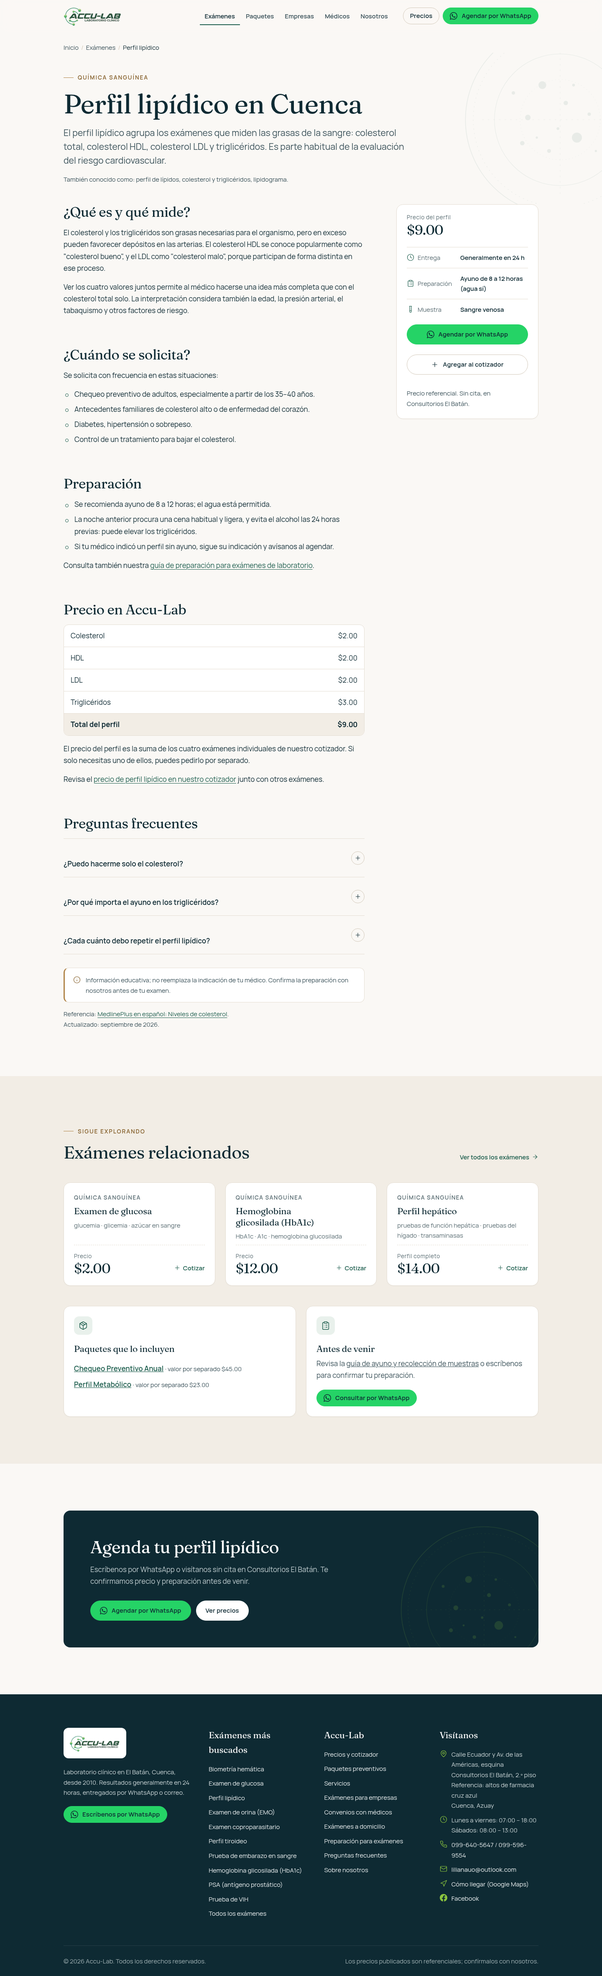
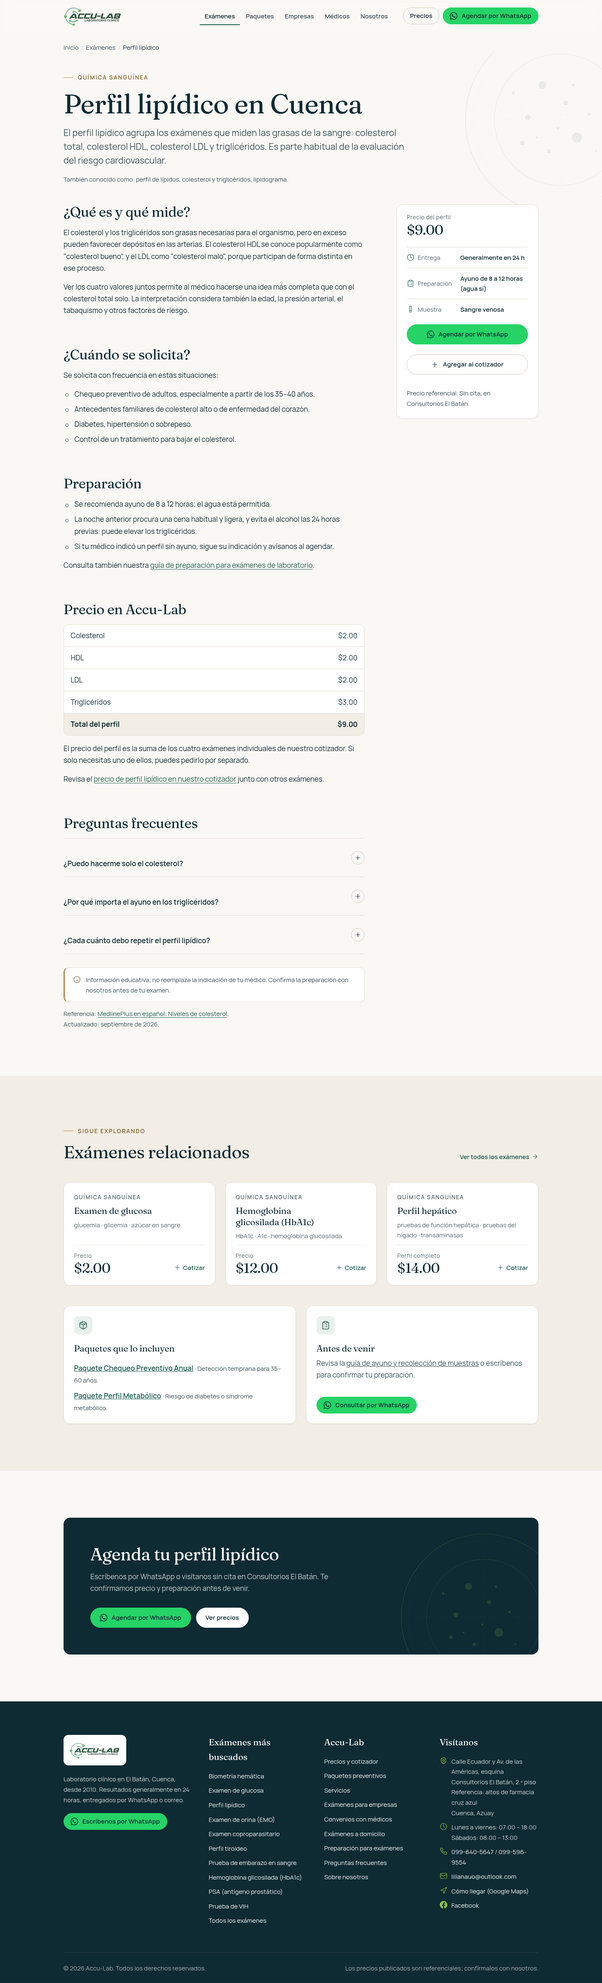
Ocultar o dejar sin precio lo que el cliente aún no confirma
- Paquetes: sin sumas ni "valor por separado" en tarjetas, /paquetes, páginas de
  examen y cotizador; ?paquete= envía solo la lista de exámenes para pedir precio
- Entrega "Generalmente en 24 h" solo en exámenes básicos; en los 15
  especializados, "Te lo confirmamos al agendar" (descriptions actualizadas)
- Ocultas: FAQ "¿Necesito orden médica?" (validar), costo del domicilio y lista
  de sustancias en la página del panel toxicológico
- PENDIENTES, DESIGN-DECISIONS (D-027), RESUMEN y capturas actualizados

Claude-Session: https://claude.ai/code/session_01Auzc9Xyq8xikAKfSvydBMZ

diff --git a/src/data/paginas/especiales.ts b/src/data/paginas/especiales.ts
@@ -1,4 +1,4 @@
-import { type PaginaExamen, ENTREGA_24H, ACTUALIZADO } from './tipos';
+import { type PaginaExamen, ENTREGA_24H, ENTREGA_A_CONFIRMAR, ACTUALIZADO } from './tipos';
 
 export const ESPECIALES: PaginaExamen[] = [
   {
@@ -6,7 +6,7 @@ export const ESPECIALES: PaginaExamen[] = [
     nombre: 'Dengue IgM',
     h1: 'Prueba de dengue',
     tituloSeo: 'Prueba de Dengue',
-    descripcion: 'Prueba de dengue (IgM) en Cuenca por $12.00. Sin ayuno y sin cita, con resultados generalmente en 24 h. Si tienes signos de alarma, acude a emergencias.',
+    descripcion: 'Prueba de dengue (IgM) en Cuenca por $12.00. Sin ayuno y sin cita, en Consultorios El Batán. Si tienes signos de alarma, acude de inmediato a emergencias.',
     categoria: 'infecciosas',
     sinonimos: ['dengue IgM', 'anticuerpos contra dengue', 'examen de dengue'],
     componentes: ['dengue-igm'],
@@ -14,7 +14,7 @@ export const ESPECIALES: PaginaExamen[] = [
     complementos: ['hemograma'],
     muestra: 'Sangre venosa',
     resumenPrep: 'No requiere ayuno',
-    entrega: ENTREGA_24H,
+    entrega: ENTREGA_A_CONFIRMAR,
     intro:
       'El dengue es una infección viral transmitida por mosquitos, frecuente en las zonas cálidas de Ecuador. Si viajaste a la Costa o al Oriente y tienes fiebre, tu médico puede pedir esta prueba.',
     queEs: [
@@ -50,7 +50,7 @@ export const ESPECIALES: PaginaExamen[] = [
     nombre: 'Ferritina y hierro',
     h1: 'Ferritina y hierro',
     tituloSeo: 'Ferritina y Hierro',
-    descripcion: 'Ferritina ($10.00) y hierro ($5.00) en Cuenca; también transferrina y saturación. Te indicamos el ayuno. Resultados en 24 h. Agenda por WhatsApp.',
+    descripcion: 'Ferritina ($10.00) y hierro ($5.00) en Cuenca; también transferrina y saturación. Te indicamos el ayuno. Sin cita, en El Batán. Agenda por WhatsApp.',
     categoria: 'quimica',
     sinonimos: ['hierro sérico', 'ferritina sérica', 'reservas de hierro', 'perfil de hierro'],
     componentes: ['ferritina', 'hierro'],
@@ -58,7 +58,7 @@ export const ESPECIALES: PaginaExamen[] = [
     complementos: ['transferrina', 'saturacion', 'hemograma'],
     muestra: 'Sangre venosa',
     resumenPrep: 'Ayuno de 8 a 12 h, de preferencia en la mañana',
-    entrega: ENTREGA_24H,
+    entrega: ENTREGA_A_CONFIRMAR,
     intro:
       'La ferritina y el hierro son los exámenes más usados para estudiar el hierro del cuerpo. Se piden sobre todo cuando se sospecha una anemia o cuando hay cansancio persistente.',
     queEs: [
@@ -95,18 +95,18 @@ export const ESPECIALES: PaginaExamen[] = [
     nombre: 'Panel toxicológico (6 determinaciones)',
     h1: 'Panel toxicológico',
     tituloSeo: 'Panel Toxicológico',
-    descripcion: 'Panel toxicológico de 6 determinaciones en Cuenca por $30.00: prueba de drogas en orina para empresas y personas. Resultados en 24 h. Escríbenos.',
+    descripcion: 'Panel toxicológico de 6 determinaciones en Cuenca por $30.00: prueba de drogas en orina para empresas y personas. Sin cita, en El Batán. Escríbenos.',
     categoria: 'toxicologia',
     sinonimos: ['prueba de drogas', 'examen toxicológico', 'antidoping', 'drogas en orina'],
     componentes: ['panel-toxicologico-6-determinaciones'],
     modoPrecio: 'unico',
     muestra: 'Orina',
     resumenPrep: 'Muestra de orina; informa tus medicamentos',
-    entrega: ENTREGA_24H,
+    entrega: ENTREGA_A_CONFIRMAR,
     intro:
       'El panel toxicológico es una prueba de detección de sustancias psicoactivas en orina. Lo solicitan empresas, instituciones y programas de salud, y también personas que necesitan un certificado.',
     queEs: [
-      'Nuestro panel incluye 6 determinaciones. En nuestra página de servicios se detallan las sustancias que pueden detectarse: cocaína, marihuana (THC), anfetaminas, metanfetaminas, opiáceos, benzodiacepinas y barbitúricos. Te confirmamos cuáles incluye tu panel según tu requerimiento.',
+      'Nuestro panel incluye 6 determinaciones, es decir, busca seis sustancias o grupos de sustancias en una misma muestra de orina. Si tu empresa o tu trámite exige sustancias específicas, escríbenos antes de venir y te confirmamos qué incluye el panel.',
       'Es una prueba de tamizaje: un resultado positivo puede requerir confirmación con otra técnica, y algunos medicamentos pueden interferir en la lectura. Por eso es importante informar lo que tomas.', 'Cada sustancia tiene un periodo distinto en el que puede detectarse en la orina después del consumo, que depende de la cantidad, la frecuencia y de cada persona. Por eso un resultado negativo indica que no se detectó la sustancia en esa muestra, en ese momento.',
     ],
     cuando: {
@@ -124,7 +124,7 @@ export const ESPECIALES: PaginaExamen[] = [
       'Trae tu documento de identidad si el examen es para una empresa o un trámite.',
     ],
     faqs: [
-      { p: '¿Qué sustancias detecta?', r: 'Nuestro panel incluye 6 determinaciones entre las sustancias que publicamos en servicios. Te confirmamos la combinación exacta por WhatsApp.' },
+      { p: '¿Qué sustancias detecta?', r: 'El panel incluye 6 determinaciones. Te confirmamos por WhatsApp cuáles son antes de tu examen, para que verifiques que cumplen lo que te solicitan.' },
       { p: '¿Hacen paneles para empresas?', r: 'Sí. Atendemos exámenes preocupacionales y controles laborales. Escríbenos para coordinar grupos de trabajadores.' },
       { p: '¿Los medicamentos alteran el resultado?', r: 'Algunos pueden hacerlo. Por eso te pedimos informar lo que tomas antes de la muestra.' },
     ],
@@ -138,14 +138,14 @@ export const ESPECIALES: PaginaExamen[] = [
     nombre: 'Perfil TORCH (toxoplasma, rubéola, citomegalovirus y herpes)',
     h1: 'Perfil TORCH',
     tituloSeo: 'Perfil TORCH',
-    descripcion: 'Perfil TORCH en Cuenca: toxoplasma, rubéola, citomegalovirus y herpes 1 y 2 (IgG e IgM), $20.00 cada uno. Resultados en 24 h. Agenda en Accu-Lab.',
+    descripcion: 'Perfil TORCH en Cuenca: toxoplasma, rubéola, citomegalovirus y herpes 1 y 2 (IgG e IgM), $20.00 cada uno. Sin ayuno y sin cita. Agenda en Accu-Lab.',
     categoria: 'infecciosas',
     sinonimos: ['TORCH', 'toxoplasmosis', 'rubéola', 'citomegalovirus', 'herpes'],
     componentes: ['toxoplasma-igg-igm', 'rubeola-igg-igm', 'citomegalovirus-igg-igm', 'herpes-virus-1-igg-igm', 'herpes-virus-2-igg-igm'],
     modoPrecio: 'suma',
     muestra: 'Sangre venosa',
     resumenPrep: 'No requiere ayuno',
-    entrega: ENTREGA_24H,
+    entrega: ENTREGA_A_CONFIRMAR,
     intro:
       'El perfil TORCH agrupa pruebas de anticuerpos contra infecciones que conviene conocer antes o durante el embarazo: toxoplasma, rubéola, citomegalovirus y herpes simple.',
     queEs: [

diff --git a/src/data/paginas/infecciosas.ts b/src/data/paginas/infecciosas.ts
@@ -1,4 +1,4 @@
-import { type PaginaExamen, ENTREGA_24H, ACTUALIZADO } from './tipos';
+import { type PaginaExamen, ENTREGA_24H, ENTREGA_A_CONFIRMAR, ACTUALIZADO } from './tipos';
 
 export const INFECCIOSAS: PaginaExamen[] = [
   {
@@ -6,7 +6,7 @@ export const INFECCIOSAS: PaginaExamen[] = [
     nombre: 'PSA – antígeno prostático específico (total y libre)',
     h1: 'PSA (antígeno prostático)',
     tituloSeo: 'Examen de PSA',
-    descripcion: 'Examen de PSA en Cuenca: PSA total por $15.00 y PSA libre por $15.00. Te indicamos la preparación. Resultados en 24 h. Agenda por WhatsApp en Accu-Lab.',
+    descripcion: 'Examen de PSA en Cuenca: PSA total por $15.00 y PSA libre por $15.00. Te indicamos la preparación. Sin cita, en El Batán. Agenda por WhatsApp en Accu-Lab.',
     categoria: 'inmunologia',
     sinonimos: ['antígeno prostático específico', 'PSA total', 'PSA libre', 'examen de próstata'],
     componentes: ['psa-total', 'psa-libre'],
@@ -14,7 +14,7 @@ export const INFECCIOSAS: PaginaExamen[] = [
     complementos: ['f-acida-prostatica'],
     muestra: 'Sangre venosa',
     resumenPrep: 'Evitar eyaculación y ciclismo 48 h antes',
-    entrega: ENTREGA_24H,
+    entrega: ENTREGA_A_CONFIRMAR,
     intro:
       'El PSA, o antígeno prostático específico, es un examen de sangre que se usa en el control de la salud de la próstata. Puede pedirse el PSA total, el PSA libre o ambos.',
     queEs: [
@@ -59,7 +59,7 @@ export const INFECCIOSAS: PaginaExamen[] = [
     complementos: ['vdrl', 'hepatitis-b-ag', 'hepatitis-c'],
     muestra: 'Sangre venosa',
     resumenPrep: 'No requiere ayuno',
-    entrega: ENTREGA_24H,
+    entrega: ENTREGA_A_CONFIRMAR,
     intro:
       'La prueba de VIH es un examen de sangre que busca señales de infección por el virus de la inmunodeficiencia humana. Hacerla es un acto de cuidado personal, y la atendemos con discreción.',
     queEs: [
@@ -95,7 +95,7 @@ export const INFECCIOSAS: PaginaExamen[] = [
     nombre: 'Pruebas de hepatitis B y C',
     h1: 'Pruebas de hepatitis B y C',
     tituloSeo: 'Hepatitis B y C',
-    descripcion: 'Pruebas de hepatitis B y C en Cuenca: $10.00 cada una, $20.00 juntas. También hepatitis A. Resultados en 24 h. Agenda por WhatsApp en Accu-Lab, El Batán.',
+    descripcion: 'Pruebas de hepatitis B y C en Cuenca: $10.00 cada una, $20.00 juntas. También hepatitis A. Sin ayuno y sin cita. Agenda por WhatsApp en Accu-Lab, El Batán.',
     categoria: 'infecciosas',
     sinonimos: ['hepatitis B', 'hepatitis C', 'antígeno de superficie', 'HBsAg', 'anti-HCV'],
     componentes: ['hepatitis-b-ag', 'hepatitis-c'],
@@ -103,7 +103,7 @@ export const INFECCIOSAS: PaginaExamen[] = [
     complementos: ['hepatitis-a-igg-igm'],
     muestra: 'Sangre venosa',
     resumenPrep: 'No requiere ayuno',
-    entrega: ENTREGA_24H,
+    entrega: ENTREGA_A_CONFIRMAR,
     intro:
       'Las hepatitis B y C son infecciones virales que afectan al hígado y que pueden pasar desapercibidas durante años. Con una muestra de sangre puedes hacerte ambas pruebas.',
     queEs: [
@@ -184,14 +184,14 @@ export const INFECCIOSAS: PaginaExamen[] = [
     nombre: 'Helicobacter pylori (en sangre y en heces)',
     h1: 'Prueba de Helicobacter pylori',
     tituloSeo: 'Helicobacter Pylori',
-    descripcion: 'Prueba de Helicobacter pylori en Cuenca, en sangre o en heces, por $10.00 cada una. Te indicamos la preparación. Resultados en 24 h. Agenda en Accu-Lab.',
+    descripcion: 'Prueba de Helicobacter pylori en Cuenca, en sangre o en heces, por $10.00 cada una. Te indicamos la preparación. Sin cita, en El Batán. Agenda en Accu-Lab.',
     categoria: 'infecciosas',
     sinonimos: ['H. pylori', 'helicobacter', 'bacteria del estómago'],
     componentes: ['helicobacter-pylori', 'helicobacter-pylori-heces'],
     modoPrecio: 'opciones',
     muestra: 'Sangre o heces',
     resumenPrep: 'Heces: consulta antes si tomas antibióticos o antiácidos',
-    entrega: ENTREGA_24H,
+    entrega: ENTREGA_A_CONFIRMAR,
     intro:
       'Helicobacter pylori es una bacteria que puede vivir en el estómago y se relaciona con gastritis y úlceras. En Accu-Lab puedes hacerte la prueba en sangre o en heces.',
     queEs: [

diff --git a/src/data/paginas/hormonas.ts b/src/data/paginas/hormonas.ts
@@ -1,4 +1,4 @@
-import { type PaginaExamen, ENTREGA_24H, ACTUALIZADO } from './tipos';
+import { type PaginaExamen, ENTREGA_24H, ENTREGA_A_CONFIRMAR, ACTUALIZADO } from './tipos';
 
 export const HORMONAS: PaginaExamen[] = [
   {
@@ -14,7 +14,7 @@ export const HORMONAS: PaginaExamen[] = [
     complementos: ['tsh', 'bhcg-cuantitativa'],
     muestra: 'Sangre venosa',
     resumenPrep: 'Día del ciclo según tu médico',
-    entrega: ENTREGA_24H,
+    entrega: ENTREGA_A_CONFIRMAR,
     intro:
       'Las hormonas femeninas regulan el ciclo menstrual, la ovulación y la fertilidad. En Accu-Lab puedes realizarte FSH, LH, estradiol, progesterona y prolactina, juntas o por separado.',
     queEs: [
@@ -51,7 +51,7 @@ export const HORMONAS: PaginaExamen[] = [
     nombre: 'Testosterona',
     h1: 'Examen de testosterona',
     tituloSeo: 'Examen de Testosterona',
-    descripcion: 'Examen de testosterona en Cuenca por $12.00, para hombres y mujeres. Se recomienda la toma en la mañana. Resultados en 24 h. Agenda por WhatsApp.',
+    descripcion: 'Examen de testosterona en Cuenca por $12.00, para hombres y mujeres. Se recomienda la toma en la mañana. Sin cita, en El Batán. Agenda por WhatsApp.',
     categoria: 'hormonas',
     sinonimos: ['testosterona total', 'hormona masculina', 'andrógenos'],
     componentes: ['testosterona'],
@@ -59,7 +59,7 @@ export const HORMONAS: PaginaExamen[] = [
     complementos: ['prolactina', 'psa-total'],
     muestra: 'Sangre venosa',
     resumenPrep: 'Toma en la mañana',
-    entrega: ENTREGA_24H,
+    entrega: ENTREGA_A_CONFIRMAR,
     intro:
       'La testosterona es la principal hormona sexual masculina, aunque también está presente, en menor cantidad, en las mujeres. Su medición se pide tanto en la consulta de hombres como en la de mujeres.',
     queEs: [
@@ -94,7 +94,7 @@ export const HORMONAS: PaginaExamen[] = [
     nombre: 'Insulina en sangre',
     h1: 'Examen de insulina',
     tituloSeo: 'Examen de Insulina',
-    descripcion: 'Examen de insulina en sangre en Cuenca por $12.00, con ayuno de 8 a 12 horas. Suele pedirse junto con la glucosa. Resultados en 24 h. Agenda en Accu-Lab.',
+    descripcion: 'Examen de insulina en sangre en Cuenca por $12.00, con ayuno de 8 a 12 horas. Suele pedirse junto con la glucosa. Sin cita, en El Batán. Escríbenos.',
     categoria: 'hormonas',
     sinonimos: ['insulina basal', 'insulina en ayunas', 'resistencia a la insulina'],
     componentes: ['insulina'],
@@ -102,7 +102,7 @@ export const HORMONAS: PaginaExamen[] = [
     complementos: ['glucosa'],
     muestra: 'Sangre venosa',
     resumenPrep: 'Ayuno de 8 a 12 horas (agua sí)',
-    entrega: ENTREGA_24H,
+    entrega: ENTREGA_A_CONFIRMAR,
     intro:
       'El examen de insulina mide la cantidad de esta hormona en la sangre. Se pide casi siempre junto con la glucosa, para entender mejor cómo el cuerpo maneja el azúcar.',
     queEs: [
@@ -138,7 +138,7 @@ export const HORMONAS: PaginaExamen[] = [
     nombre: 'Cortisol',
     h1: 'Examen de cortisol',
     tituloSeo: 'Examen de Cortisol',
-    descripcion: 'Examen de cortisol en sangre en Cuenca por $12.00. La hora de la toma es importante: te ayudamos a coordinarla. Resultados en 24 h. Agenda en Accu-Lab.',
+    descripcion: 'Examen de cortisol en sangre en Cuenca por $12.00. La hora de la toma es importante: te ayudamos a coordinarla. Sin cita, en El Batán. Agenda en Accu-Lab.',
     categoria: 'hormonas',
     sinonimos: ['cortisol sérico', 'cortisol en sangre', 'hormona del estrés'],
     componentes: ['cortisol'],
@@ -146,7 +146,7 @@ export const HORMONAS: PaginaExamen[] = [
     complementos: ['acth'],
     muestra: 'Sangre venosa',
     resumenPrep: 'Hora de toma según tu médico',
-    entrega: ENTREGA_24H,
+    entrega: ENTREGA_A_CONFIRMAR,
     intro:
       'El cortisol es una hormona producida por las glándulas suprarrenales. Su medición en sangre ayuda al médico a evaluar el funcionamiento de esas glándulas.',
     queEs: [

diff --git a/src/data/paginas/sangre-general.ts b/src/data/paginas/sangre-general.ts
@@ -1,4 +1,4 @@
-import { type PaginaExamen, ENTREGA_24H, ACTUALIZADO } from './tipos';
+import { type PaginaExamen, ENTREGA_24H, ENTREGA_A_CONFIRMAR, ACTUALIZADO } from './tipos';
 
 export const SANGRE_GENERAL: PaginaExamen[] = [
   {
@@ -140,7 +140,7 @@ export const SANGRE_GENERAL: PaginaExamen[] = [
     nombre: 'Hemoglobina glicosilada (HbA1c)',
     h1: 'Hemoglobina glicosilada (HbA1c)',
     tituloSeo: 'Hemoglobina Glicosilada',
-    descripcion: 'Hemoglobina glicosilada (HbA1c) en Cuenca por $12.00. Refleja el promedio de glucosa de los últimos meses. Resultados en 24 h. Agenda por WhatsApp.',
+    descripcion: 'Hemoglobina glicosilada (HbA1c) en Cuenca por $12.00. Refleja el promedio de glucosa de los últimos meses. Sin cita, en El Batán. Agenda por WhatsApp.',
     categoria: 'quimica',
     sinonimos: ['HbA1c', 'A1c', 'hemoglobina glucosilada', 'hemoglobina A1c'],
     componentes: ['hemoglobina-glicosilada'],
@@ -148,7 +148,7 @@ export const SANGRE_GENERAL: PaginaExamen[] = [
     complementos: ['glucosa'],
     muestra: 'Sangre venosa',
     resumenPrep: 'Por lo general no requiere ayuno',
-    entrega: ENTREGA_24H,
+    entrega: ENTREGA_A_CONFIRMAR,
     intro:
       'La hemoglobina glicosilada, o HbA1c, muestra cómo se ha comportado la glucosa en sangre durante un periodo más largo que un examen de glucosa común. Por eso es muy utilizada en el control de la diabetes.',
     queEs: [
@@ -184,14 +184,14 @@ export const SANGRE_GENERAL: PaginaExamen[] = [
     nombre: 'Perfil tiroideo (TSH, T3 libre y T4 libre)',
     h1: 'Perfil tiroideo',
     tituloSeo: 'Perfil Tiroideo',
-    descripcion: 'Perfil tiroideo en Cuenca: TSH, T3 libre y T4 libre por $30.00 en total, o cada uno por separado. Resultados en 24 h. Agenda por WhatsApp en Accu-Lab.',
+    descripcion: 'Perfil tiroideo en Cuenca: TSH, T3 libre y T4 libre por $30.00 en total, o cada uno por separado. Sin cita, en El Batán. Agenda por WhatsApp en Accu-Lab.',
     categoria: 'hormonas',
     sinonimos: ['pruebas de tiroides', 'TSH', 'T3 libre', 'T4 libre', 'FT3', 'FT4'],
     componentes: ['tsh', 't3-libre', 't4-libre'],
     modoPrecio: 'suma',
     muestra: 'Sangre venosa',
     resumenPrep: 'Generalmente sin ayuno; toma en la mañana',
-    entrega: ENTREGA_24H,
+    entrega: ENTREGA_A_CONFIRMAR,
     intro:
       'El perfil tiroideo reúne tres exámenes de sangre que evalúan el funcionamiento de la glándula tiroides: la TSH, la T3 libre y la T4 libre. Tu médico puede pedir el perfil completo o solo alguno de ellos.',
     queEs: [

diff --git a/src/styles/global.css b/src/styles/global.css
@@ -263,8 +263,8 @@ p { text-wrap: pretty; }
 .pkg-card__top { display: flex; align-items: start; justify-content: space-between; gap: var(--s-4); }
 .pkg-card h3 { font-size: var(--fs-lg); margin: 0; }
 .pkg-card__for { color: var(--ink-2); font-size: var(--fs-sm); }
-.pkg-card__value { background: var(--surface-2); border-radius: var(--r); padding: var(--s-4); font-size: var(--fs-sm); }
-.pkg-card__value strong { font-family: var(--font-serif); font-weight: 400; font-size: var(--fs-lg); display: block; line-height: 1.1; margin-top: 2px; }
+.pkg-card__value { background: var(--surface-2); border-radius: var(--r); padding: var(--s-3) var(--s-4); font-size: var(--fs-sm); color: var(--ink-2); }
+.pkg-card__value strong { color: var(--ink); font-weight: 600; }
 
 /* Chips */
 .chips { display: flex; flex-wrap: wrap; gap: 8px; list-style: none; padding: 0; }

diff --git a/src/data/paginas/organos.ts b/src/data/paginas/organos.ts
@@ -1,4 +1,4 @@
-import { type PaginaExamen, ENTREGA_24H, ACTUALIZADO } from './tipos';
+import { type PaginaExamen, ENTREGA_24H, ENTREGA_A_CONFIRMAR, ACTUALIZADO } from './tipos';
 
 export const ORGANOS: PaginaExamen[] = [
   {
@@ -13,7 +13,7 @@ export const ORGANOS: PaginaExamen[] = [
     modoPrecio: 'opciones',
     muestra: 'Sangre venosa',
     resumenPrep: 'No requiere ayuno',
-    entrega: ENTREGA_24H,
+    entrega: ENTREGA_A_CONFIRMAR,
     intro:
       'La prueba de embarazo en sangre busca la hormona gonadotropina coriónica humana (HCG), que el cuerpo produce durante el embarazo. En Accu-Lab tienes dos opciones con precio publicado: la beta HCG cuantitativa y la prueba de embarazo.',
     queEs: [

diff --git a/src/data/faq.ts b/src/data/faq.ts
@@ -15,4 +15,6 @@ export const FAQ: FaqItem[] = [
   { grupo: 'Preparación', p: '¿Necesito ayunar para un examen de sangre?', r: 'Depende del examen. Para glucosa y perfil lipídico, por ejemplo, generalmente se indica ayuno de 8 a 12 horas. Te confirmamos la preparación exacta al agendar.' },
 ];
 
+// Preguntas marcadas `validar: true` NO se publican hasta que el laboratorio las confirme (ver PENDIENTES.md).
+export const FAQ_PUBLICADA = FAQ.filter((f) => !f.validar);
 export const FAQ_CORTA = [0, 1, 4, 5].map((i) => FAQ[i]);

diff --git a/src/data/paginas/tipos.ts b/src/data/paginas/tipos.ts
@@ -32,4 +32,6 @@ export interface PaginaExamen {
 }
 
 export const ENTREGA_24H = 'Generalmente en 24 h';
+/** Exámenes especializados: el sitio original indica que algunos tardan 48–72 h. Sin dato por examen, no se afirma un plazo. */
+export const ENTREGA_A_CONFIRMAR = 'Te lo confirmamos al agendar';
 export const ACTUALIZADO = '2026-09-24';

diff --git a/PENDIENTES.md b/PENDIENTES.md
@@ -26,11 +26,11 @@ Datos que el sitio necesita y que **no se inventaron**. Cada punto indica qué s
 | **Equipo** (nombres, cargos, registro profesional) | Bloque oculto en /nosotros (`EQUIPO = []`) | `src/pages/nosotros.astro` |
 | **Calidad** (permisos ACESS, certificaciones, controles de calidad) | Bloque oculto en /nosotros (`CALIDAD = []`) | `src/pages/nosotros.astro` |
 | **Responsable técnico / revisor del contenido médico** | Campo `revisadoPor: null` en cada examen; `reviewedBy` no se publica | `src/data/paginas/*.ts` → `revisadoPor: { nombre, cargo }` |
-| **Precio especial de cada paquete** | "Consulta el precio especial del paquete por WhatsApp" + valor de los exámenes por separado | `src/data/paquetes.ts` (agregar un campo de precio y mostrarlo en `PackageCard.astro`) |
-| **Exámenes de paquetes que no están en el cotizador:** vitamina B12, vitamina D, ureaplasma, mycoplasma, HOMA, VSG | "precio a consultar" (chip punteado) | Si el laboratorio los realiza con precio fijo, agregarlos a `data/examenes.json`, actualizar `audit/before/precios-baseline.json` y enlazarlos en `src/data/paquetes.ts` |
+| **Precio de cada paquete** | **Oculto.** Solo se muestra "Precio del paquete: consúltalo por WhatsApp". No se publica ninguna suma, ni en /paquetes, ni en las páginas de examen, ni en el cotizador (`?paquete=` envía la lista sin precios ni total) | `src/data/paquetes.ts` (agregar un campo de precio y mostrarlo en `PackageCard.astro`) |
+| **Exámenes de paquetes que no están en el cotizador:** vitamina B12, vitamina D, ureaplasma, mycoplasma, HOMA, VSG | Se muestran solo como nombre (chip sin precio ni enlace) | Si el laboratorio los realiza con precio fijo, agregarlos a `data/examenes.json`, actualizar `audit/before/precios-baseline.json` y enlazarlos en `src/data/paquetes.ts` |
 | **Composición exacta de los perfiles de los paquetes** ("Función hepática/renal", "Perfil lipídico", "Electrolitos") | Se usó la composición de las páginas de perfil (hepático: TGO, TGP, bilirrubinas, FA, GGT; renal: urea, creatinina, ácido úrico; lipídico: colesterol, HDL, LDL, TG; electrolitos: Na, K, Cl). "PSA" del paquete masculino = PSA total. "Helicobacter pylori" del panel digestivo = heces (mismo precio que en sangre) | `src/data/paquetes.ts` |
-| **Panel toxicológico:** qué 6 sustancias incluye | El texto dice "6 determinaciones" y lista las 7 sustancias publicadas en servicios con "te confirmamos la combinación exacta" | `src/data/paginas/especiales.ts` |
-| **Domicilio:** zonas de cobertura, costo, horario | "Consúltanos por WhatsApp la cobertura en tu sector" | `src/pages/domicilio.astro` |
+| **Panel toxicológico:** qué 6 sustancias incluye | **Oculto** en la página del examen: solo dice "6 determinaciones; te confirmamos cuáles". En /servicios y /empresas se mantiene la lista original publicada en el sitio anterior | `src/data/paginas/especiales.ts` |
+| **Domicilio:** zonas de cobertura, costo, horario | "Consúltanos por WhatsApp la cobertura en tu sector". Se retiró la pregunta sobre el costo | `src/pages/domicilio.astro` |
 | **Formas de pago y seguros** | Omitido (sin datos) | Agregar a `src/data/faq.ts` cuando estén confirmados |
 | **Correo corporativo** | Se mantiene `lilianauo@outlook.com` | `src/lib/site.ts` → `email` |
 | **Dirección en Google Business Profile** | En el sitio y el JSON-LD: "Calle Ecuador y Av. de las Américas, esquina" (confirmado por el cliente el 24/09/2026) | Verificar que la ficha de Google diga exactamente lo mismo (TAREAS-MANUALES.md) |
@@ -42,11 +42,11 @@ Datos que el sitio necesita y que **no se inventaron**. Cada punto indica qué s
 
 Texto general y prudente; conviene que lo revise un profesional del laboratorio:
 
-1. **"¿Necesito orden médica?"** → respuesta publicada: "Puedes realizarte exámenes con o sin orden; tu médico te indicará cuáles necesitas". Está marcada `validar: true` en `src/data/faq.ts`. **Validar.**
-2. **Tiempo de entrega:** todas las páginas de examen dicen "Generalmente en 24 h". Validar sobre todo TORCH, hormonas, PSA, panel toxicológico y cultivos. El sitio anterior decía que "algunos análisis especializados pueden tomar 48-72 horas". Campo `entrega` en `src/data/paginas/*.ts`.
+1. **"¿Necesito orden médica?"** → **Oculta.** La respuesta preparada ("Puedes realizarte exámenes con o sin orden; tu médico te indicará cuáles necesitas") está en `src/data/faq.ts` con `validar: true` y no se publica. Para mostrarla, quitar `validar: true`.
+2. **Tiempo de entrega por examen:** "Generalmente en 24 h" solo aparece en los exámenes básicos (biometría, glucosa, perfiles lipídico, renal y hepático, EMO, coproparasitario, grupo sanguíneo, tiempos de coagulación, VDRL). En los 15 especializados (HbA1c, tiroides, embarazo, PSA, VIH, hepatitis, H. pylori, dengue, ferritina, toxicológico, TORCH, hormonas femeninas, testosterona, insulina y cortisol) dice **"Te lo confirmamos al agendar"**, porque el sitio anterior indicaba que algunos tardan de 48 a 72 horas. Cuando se confirme cada plazo, cambiar `entrega` en `src/data/paginas/*.ts` (y la meta description si se quiere mencionar).
 3. **Ayuno de 8 a 12 horas** para glucosa, perfil lipídico, perfiles renal y hepático, insulina y hierro.
 4. **Preparaciones específicas:** PSA (evitar eyaculación y ciclismo 48 h), testosterona (antes de las 10:00), prolactina (en la mañana y en reposo), H. pylori en heces (antiácidos y antibióticos), cortisol (hora de la toma), EMO (chorro medio, entrega dentro de la primera hora).
 5. **Prueba de embarazo:** diferencia entre "BHCG Cuantitativa" ($15) y "Pruebas de Embarazo" ($7). El cliente confirmó que ambas están bien; el texto no afirma el tipo de muestra ni la técnica de la de $7.
 6. **"Apoyo en interpretación de pruebas"** (beneficio del convenio médico, texto del sitio anterior): confirmar su alcance.
-7. **Paquete "Hormonal Masculino" → PSA:** confirmar si es PSA total o total + libre.
+7. **Paquete "Hormonal Masculino" → PSA:** confirmar si es PSA total o total + libre (hoy `?paquete=` preselecciona el PSA total como sugerencia, sin precio).
 8. **Signos de alarma del dengue** (página /examenes/dengue): texto de salud pública; validar la redacción.

diff --git a/RESUMEN-CAMBIOS.md b/RESUMEN-CAMBIOS.md
@@ -45,7 +45,7 @@ Se migró el sitio de 4 páginas HTML sueltas a **Astro estático con 38 página
 
 **Fase 5 · Catálogo:** `data/examenes.json` (97 exámenes: slug, nombre exacto, sinónimos, categoría, precio, página, preparación y relacionados) es la fuente única del cotizador, del `hasOfferCatalog`, de `/examenes`, de los paquetes y de las páginas. Hay 25 páginas de examen con la plantilla pedida: precio, entrega, preparación, WhatsApp prellenado, 5 H2, desglose de perfiles, 3 FAQ, 3 relacionados, paquete, aviso educativo, MedlinePlus y fecha de actualización.
 
-**Fase 6 · Paquetes y servicios:** 10 tarjetas con chips enlazados, valor por separado calculado, "precio a consultar" para los 6 exámenes que no están en el catálogo y "Cotizar este paquete" (`/cotizar?paquete=`); `/empresas` con WhatsApp B2B; `/medicos` con "Solicitar convenio"; `/domicilio` sin datos inventados.
+**Fase 6 · Paquetes y servicios:** 10 tarjetas con chips enlazados, **sin precio** ("Precio del paquete: consúltalo por WhatsApp", ver D-027) y "Cotizar este paquete" (`/cotizar?paquete=`, que envía la lista sin precios); `/empresas` con WhatsApp B2B; `/medicos` con "Solicitar convenio"; `/domicilio` sin datos inventados.
 
 **Fase 7 · Contenido:** guía de preparación en acordeones (5 temas) y FAQ solo con datos confirmados.
 
@@ -56,6 +56,12 @@ Se migró el sitio de 4 páginas HTML sueltas a **Astro estático con 38 página
 **Fase 10 · QA:** capturas en `audit/after/`, comparativas en `audit/comparativa/` y scripts de verificación en `scripts/`.
 
 ---
+
+## Datos sin confirmar: ocultos o sin precio (D-027)
+- Precio de los paquetes: no se muestra ninguna suma.
+- Tiempo de entrega de los 15 exámenes especializados: "Te lo confirmamos al agendar".
+- La pregunta sobre la orden médica, el costo del domicilio y la lista de sustancias del panel toxicológico: ocultos.
+- Reseñas, equipo, calidad y `reviewedBy`: preparados y ocultos.
 
 ## Estructura del proyecto
 ```

diff --git a/DESIGN-DECISIONS.md b/DESIGN-DECISIONS.md
@@ -159,3 +159,14 @@ Si existe `PUBLIC_GA4_ID` (variable de entorno de Vercel), gtag se carga tras la
 
 ## D-026 · El build verifica los precios
 `npm run build` ejecuta `scripts/verificar-precios.mjs` después de `astro build`. Si alguno de los 97 precios difiere de `audit/before/precios-baseline.json`, el build falla y Vercel mantiene el despliegue anterior. Si el laboratorio cambia un precio a propósito, hay que actualizar la línea base en el mismo commit.
+
+# Ajuste previo al PR (pedido del cliente: "lo que no esté confirmado, sin precio u oculto")
+
+## D-027 · Nada publicado que dependa de datos sin confirmar
+**Qué:**
+- **Paquetes sin precio:** se eliminó el "valor de los exámenes por separado" de las tarjetas, de /paquetes, de las páginas de examen y del cotizador. Con `?paquete=` el cotizador preselecciona los exámenes como sugerencia, oculta el total y los precios individuales, y envía por WhatsApp solo la lista de nombres para pedir el precio del paquete. Los 6 exámenes que no están en el catálogo aparecen solo por su nombre, sin la etiqueta "precio a consultar".
+- **Tiempo de entrega:** "Generalmente en 24 h" se mantiene solo en los 10 exámenes básicos. En los 15 especializados dice "Te lo confirmamos al agendar", y sus meta descriptions ya no mencionan 24 h.
+- **Ocultos:** la pregunta "¿Necesito orden médica?" (filtrada por `validar: true`), la pregunta sobre el costo del domicilio y la lista de sustancias en la página del panel toxicológico (el panel tiene 6 determinaciones y el sitio anterior listaba 7 sustancias).
+
+**Por qué:** una suma visible junto a un paquete se lee como su precio. Un plazo de 24 h en un examen que puede tardar 72 h genera reclamos. En los tres casos, un visitante podía confundirse.
+**Descartado:** mostrar la suma con una advertencia (sigue pareciendo un precio) y quitar los paquetes del sitio (son contenido publicado y sirven para el SEO).
